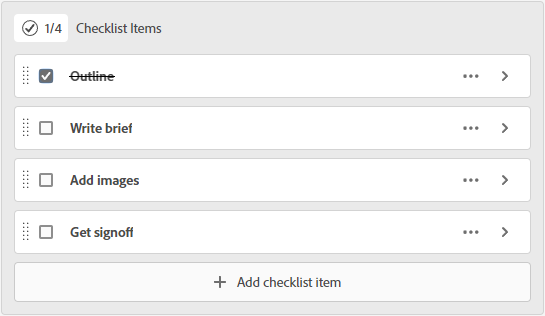
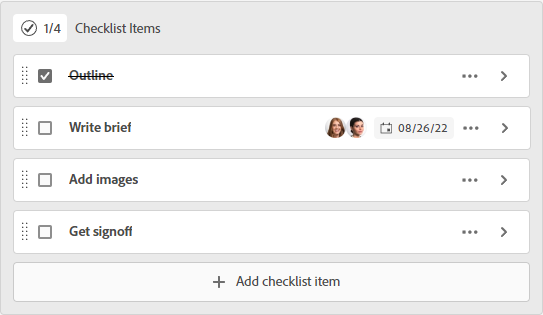
Additions to checklist functionality

diff --git a/help/quicksilver/agile/get-started-with-boards/manage-checklist-items.md b/help/quicksilver/agile/get-started-with-boards/manage-checklist-items.md
@@ -65,6 +65,9 @@ You must have the following access to perform the steps in this article:
    <span class="preview">For information about any of these fields, see [Add an ad hoc card to a board](/help/quicksilver/agile/get-started-with-boards/add-card-to-board.md) or [Use connected cards on boards](/help/quicksilver/agile/get-started-with-boards/connected-cards.md).</span>
 
 1. <span class="preview">Click **Close** to return to the card details and the full list of checklist items.</span>
+
+   <span class="preview">The assignees and due date appear on the item.</span>
+
 1. <span class="preview">To copy an item, click the **More** menu ![More menu](assets/more-icon-spectrum.png) on the item and select **Copy**.</span>
 1. To delete a checklist item in the Production environment, click the **Delete** icon ![Delete icon](assets/delete.png).
 1. <span class="preview">To delete a checklist item in the Preview environment, click the **More** menu ![More menu](assets/more-icon-spectrum.png) on the item and select **Delete**.</span>
